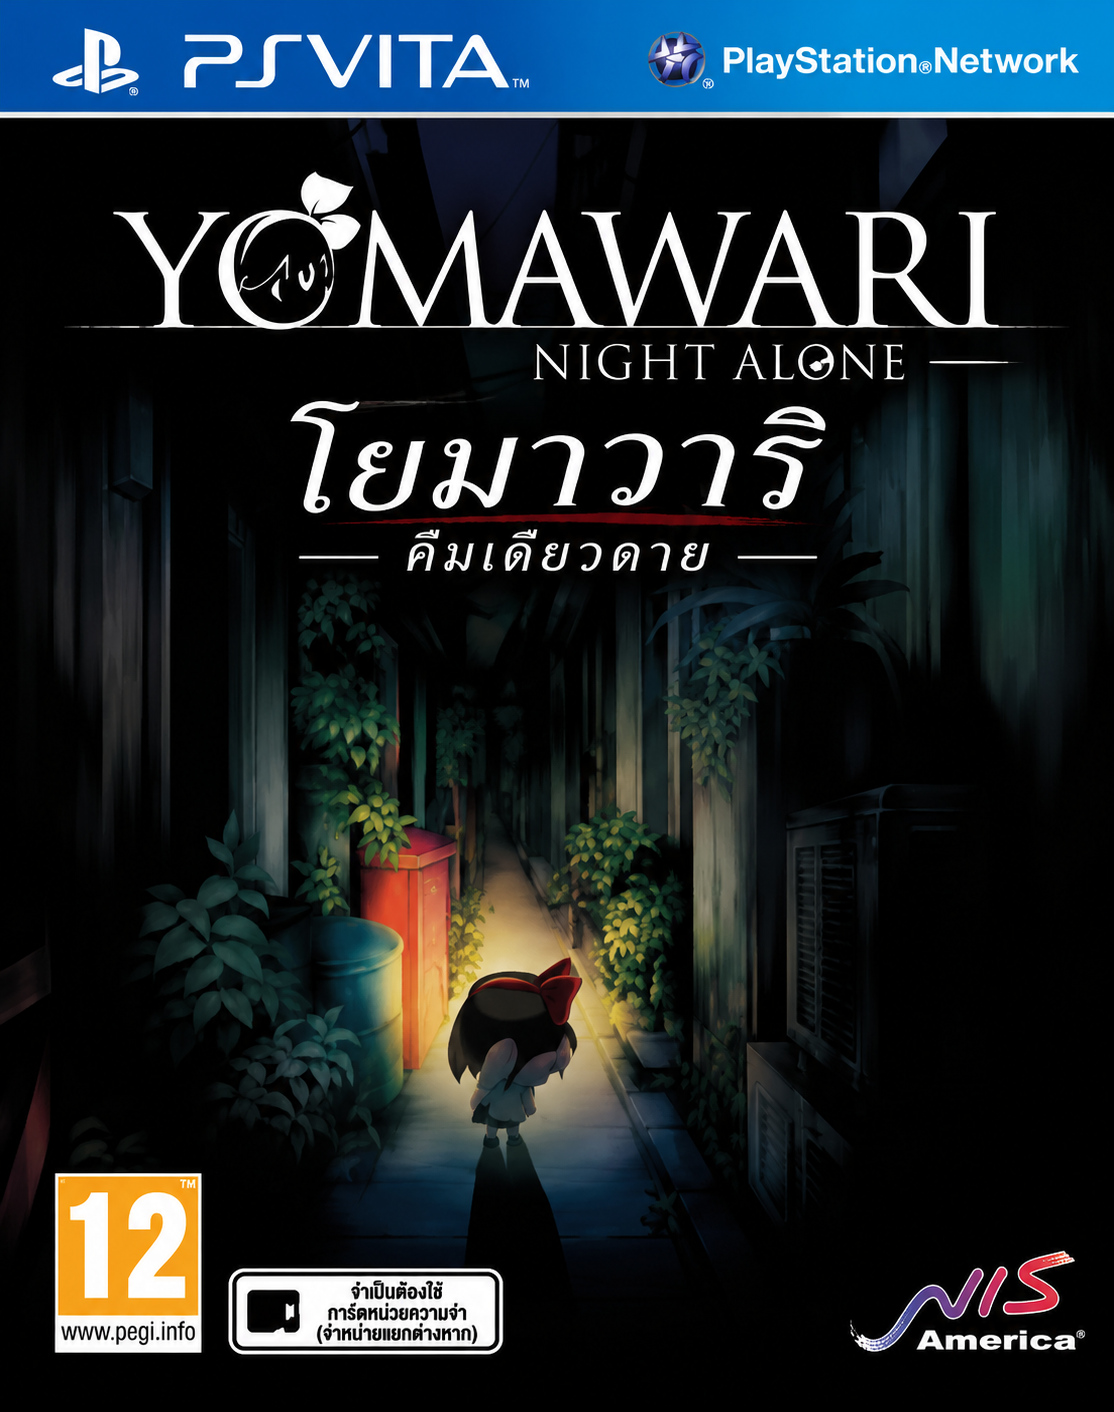
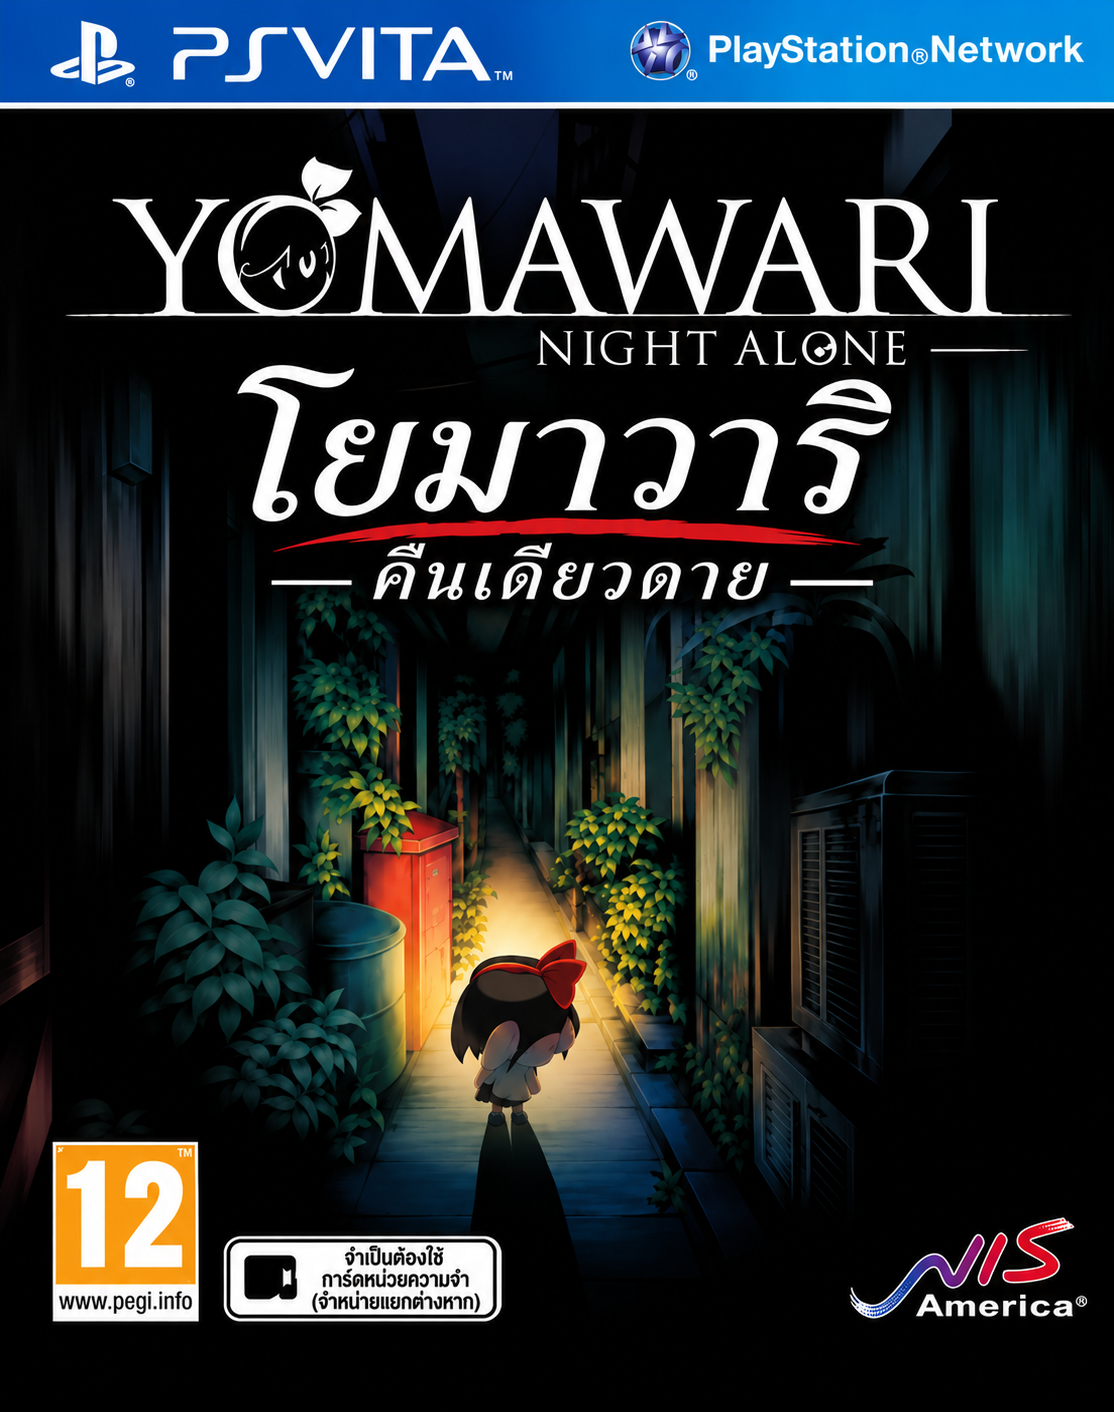
Update Yomawari Thai cover artwork

diff --git a/index.html b/index.html
@@ -696,7 +696,7 @@ import {hashBlob} from "./dragons-crown/dragon-sha256.mjs";
 
 
 const GAMES = [
-  {"id":"yomawari-night-alone","name":"Yomawari: Night Alone","platform":"PS Vita","format":"แปะแพตช์ออนไลน์","displayFormat":"แปะแพตช์ออนไลน์ · ZIP rePatch","version":"v1.0","displayVersion":"ภาษาไทย v1.0","fileType":"ARC","cover":"yomawari-night-alone/cover.png","desc":"เมื่อโปโร สุนัขคู่ใจหายตัวไป พี่สาวออกตามหาแล้วไม่กลับมา เด็กหญิงจึงถือไฟฉายออกเดินเพียงลำพังในเมืองที่เคยคุ้น พอตกกลางคืน ถนนเส้นเดิมกลับเต็มไปด้วยเงาที่เฝ้ารออยู่ในความมืด เธอจะพาทั้งคู่กลับบ้านได้ไหม?","sourceSize":530607616,"pageUrl":"./yomawari-night-alone/"},
+  {"id":"yomawari-night-alone","name":"Yomawari: Night Alone","platform":"PS Vita","format":"แปะแพตช์ออนไลน์","displayFormat":"แปะแพตช์ออนไลน์ · ZIP rePatch","version":"v1.0","displayVersion":"ภาษาไทย v1.0","fileType":"ARC","cover":"yomawari-night-alone/cover.png?v=db227cea","desc":"เมื่อโปโร สุนัขคู่ใจหายตัวไป พี่สาวออกตามหาแล้วไม่กลับมา เด็กหญิงจึงถือไฟฉายออกเดินเพียงลำพังในเมืองที่เคยคุ้น พอตกกลางคืน ถนนเส้นเดิมกลับเต็มไปด้วยเงาที่เฝ้ารออยู่ในความมืด เธอจะพาทั้งคู่กลับบ้านได้ไหม?","sourceSize":530607616,"pageUrl":"./yomawari-night-alone/"},
   {"id":"nanashi-no-geemu-me-thai-v1","name":"Nanashi no Geemu Me — เกมแห่งวิญญาณ 2","platform":"Nintendo DS","format":"แปะแพตช์บนเว็บ","version":"v1.0","displayVersion":"ภาษาไทย v1.0","cover":"nanashi-no-geemu-me/cover.png","desc":"เกม RPG ปริศนาถูกส่งเข้ามาในเครื่องพกพา พร้อมข่าวลือว่าคนที่เล่นไม่จบในเจ็ดวันจะต้องตาย เมื่อเรื่องในเกมเริ่มเกิดขึ้นในโลกจริง คุณต้องสลับระหว่างสำรวจสถานที่ร้างกับแกะรอยในเกม 8 บิตเพื่อหาที่มาของคำสาป ก่อนเวลาของคุณจะหมด","sourceSize":63459948,"pageUrl":"./nanashi-no-geemu-me/","downloadOnly":false},
   {"id":"nanashi-no-geemu-thai-v1","name":"Nanashi no Geemu — เกมแห่งวิญญาณ","platform":"Nintendo DS","format":"แปะแพตช์บนเว็บ","version":"v1.0","displayVersion":"ภาษาไทย v1.0","cover":"nanashi-no-geemu/cover.png","desc":"เกม RPG ปริศนาปรากฏขึ้นบนเครื่องพกพา ใครเปิดเล่นจะต้องพบกับคำสาปภายในเจ็ดวัน เมื่อโอดากะขาดเรียนไปโดยไม่บอกใคร ริโกะจึงขอให้คุณไปตามหาเขา ยิ่งแกะรอยจากโลกในเกมมาสู่สถานที่จริง เสียงเพลงจากเกมก็ยิ่งตามคุณไปไกลกว่าที่คิด","sourceSize":68743360,"pageUrl":"./nanashi-no-geemu/","downloadOnly":false},
   {"id":"tales-of-destiny-2-psp-thai-v1","name":"Tales of Destiny 2 — เทลส์ ออฟ เดสทินี 2 (PSP)","platform":"PSP","format":"แปะแพตช์บนเว็บ","version":"v1.0","displayVersion":"ภาษาไทย v1.0 · ฐาน English v0.3.8","cover":"tales-of-destiny-2-psp/cover.png","desc":"ไคล์ เด็กหนุ่มผู้ใฝ่ฝันจะเป็นวีรบุรุษ ได้พบเรียลา หญิงสาวปริศนา การเดินทางที่เริ่มจากความฝันเล็ก ๆ กลับพาเขาและเหล่าสหายเข้าไปพัวพันกับความลับของโลกและกาลเวลา ร่วมค้นหาว่าการเป็นวีรบุรุษมีความหมายอย่างไร ในแอ็กชัน RPG ที่ผสานการต่อสู้รวดเร็วกับเรื่องราวแห่งสายสัมพันธ์ · แปลโดยเพจแปลเกมเก่า · ฐานอังกฤษ v0.3.8 คงคำแปลและฟอนต์ไทยเดิม เมนูอังกฤษ ยังมีบทพูดบางฉากเป็นอังกฤษ","sourceSize":2027954176,"pageUrl":"./tales-of-destiny-2-psp/","downloadOnly":false},

diff --git a/yomawari-night-alone/index.html b/yomawari-night-alone/index.html
@@ -23,7 +23,7 @@ code { overflow-wrap: anywhere; }
 <body class="pgk-theme pgk-detail">
 <main>
 <p><a href="../index.html">← กลับไปคลังเกมแปลไทย</a></p>
-<img class="cover" src="cover.png" alt="ปก Yomawari: Night Alone ฉบับภาษาไทยสำหรับ PS Vita">
+<img class="cover" src="cover.png?v=db227cea" alt="ปก Yomawari: Night Alone ฉบับภาษาไทยสำหรับ PS Vita">
 <h1>Yomawari: Night Alone ภาษาไทย v1.0</h1>
 <p>PS Vita · USA · PCSE00909</p>
 <p>เมื่อโปโร สุนัขคู่ใจหายตัวไป พี่สาวออกตามหาแล้วไม่กลับมา เด็กหญิงจึงถือไฟฉายออกเดินเพียงลำพังในเมืองที่เคยคุ้น พอตกกลางคืน ถนนเส้นเดิมกลับเต็มไปด้วยเงาที่เฝ้ารออยู่ในความมืด เธอจะพาทั้งคู่กลับบ้านได้ไหม?</p>
